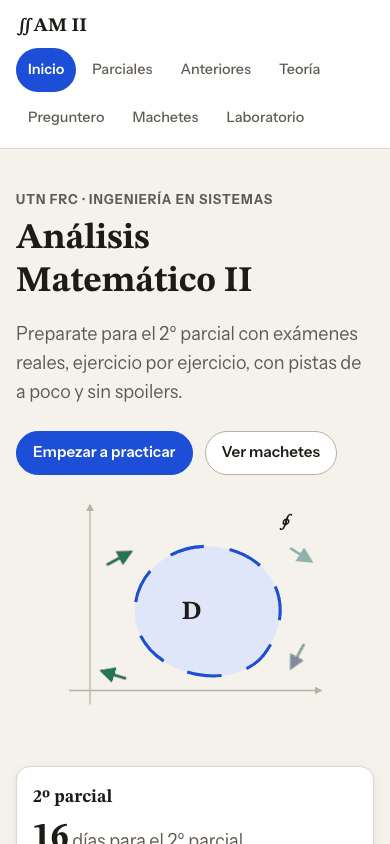
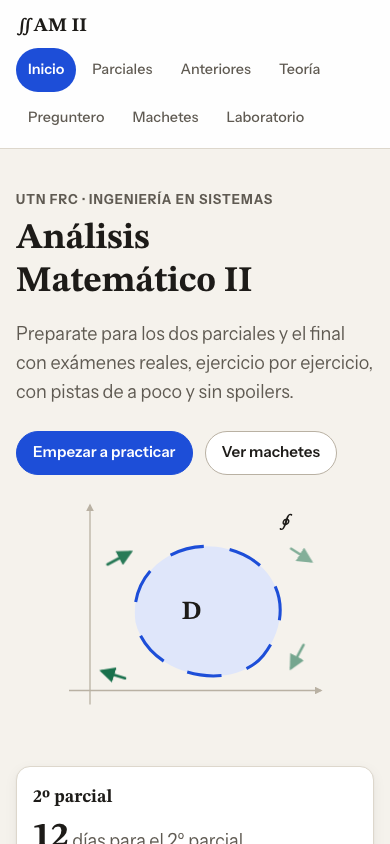
docs(P1-F): README y CHANGELOG 3.0.0 con las dos instancias (capturas nuevas, social preview)

Changed region(s): [[0.0308, 0.3697, 0.9538, 0.4929], [0.1231, 0.955, 0.1846, 1.0], [0.7385, 0.7701, 0.7692, 0.8009]]

diff --git a/CHANGELOG.md b/CHANGELOG.md
@@ -2,6 +2,27 @@
 
 Formato basado en [Keep a Changelog](https://keepachangelog.com/es-ES/1.1.0/).
 
+## [3.0.0] - 2026-10-19
+
+### Agregado
+- Segunda instancia: 1º parcial (U1–U3), con los 20 parciales resueltos y verificados con sympy (pistas, pasos, comprobación, escaneos con datos personales tapados).
+- Avisos de discrepancia con el profe en los ejercicios donde sympy no coincide con la resolución de cátedra.
+- Machete enlazado en la pista 2 de cada ejercicio del 1º; 9 machetes nuevos (21 en total) con figuras.
+- Teoría U1–U3 y preguntero U1–U3 (49 preguntas; 133 en total).
+- Laboratorio del 1º con 8 generadores: dominio (con gráfico de la región), derivada direccional en 2D y 3D, diferencial, extremos, Lagrange, implícita y plano tangente.
+- Home con las dos instancias y mapa de la materia por unidad.
+- Tests: 76 E2E (incluido el recorrido del 1º parcial) y 78 unitarios.
+
+### Cambiado
+- El sitio funciona sin JS: parciales, pistas, pasos y teoría se leen sin script.
+- Estética del 1º parcial y del laboratorio según las auditorías de `estetica` y `profe`.
+- README con las dos instancias, capturas nuevas y banner actualizado.
+
+### Corregido
+- Fórmulas `$$` consecutivas que se renderizaban en línea.
+- Chips largos que desbordaban en celular.
+- Hallazgos de `profe` (teoría, preguntero, machetes, laboratorio), `ecc:code-reviewer` y `tester`.
+
 ## [2.0.0] - 2026-10-15
 
 ### Agregado
